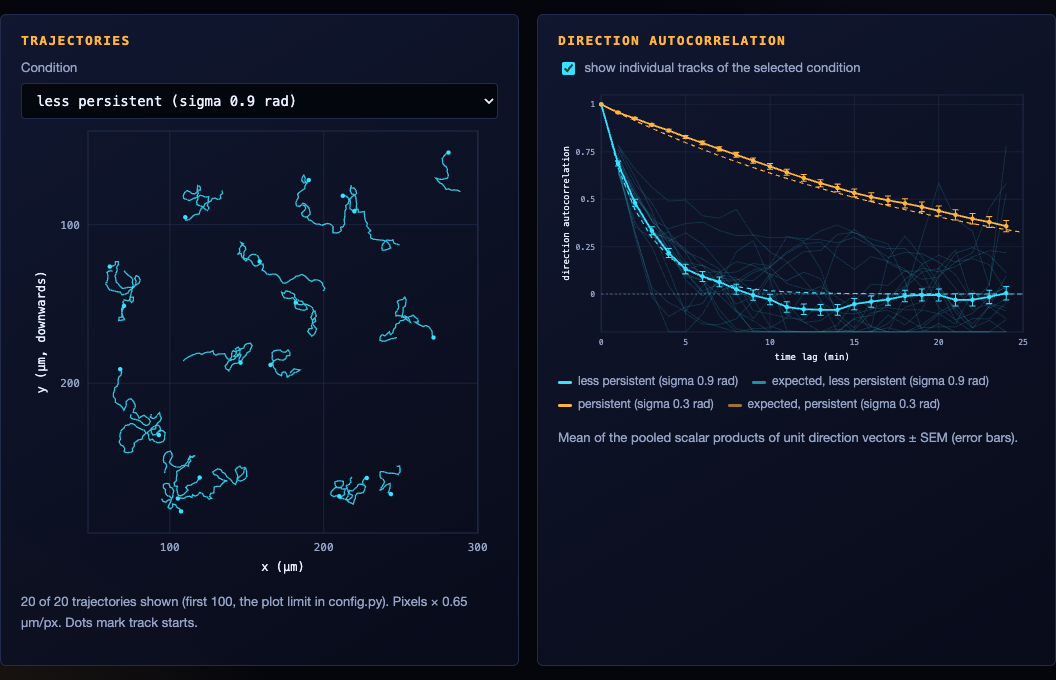
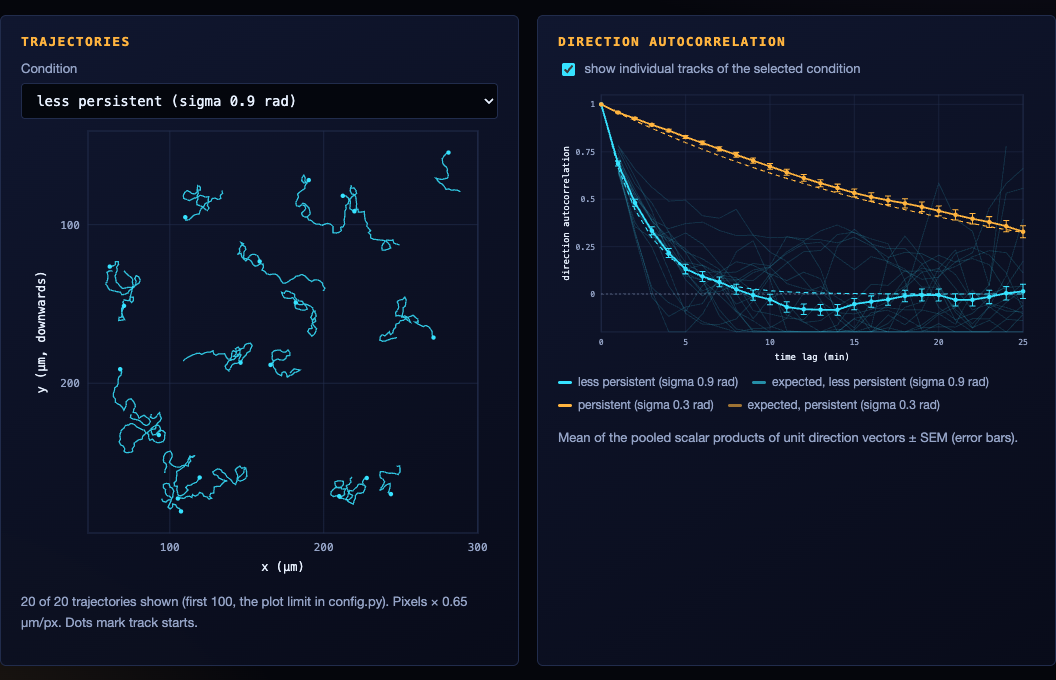
Fix last lag never being computed in calculate_scalar_products
The step loop ran range(1, min(num_intervals, L)), so lag num_intervals * dt was
always empty (AVG NaN, SEM 0). Steps now run 1..min(num_intervals, L-2) (a track
of L points has L-1 direction vectors). Earlier lags are unchanged.

- test_core.py TestAllLagsComputed (failed before the fix): last lag computed,
  per-track lags limited by length, and lags 0..(n-1)*dt, pair counts and per-track
  values equal a frozen pre-fix reference (tests/fixtures/pre_lastlag_reference.json).
- JS engine (dac_engine.js) updated; fixture regenerated; JS vs Python 4.4e-16.
- Site no longer labels the last lag as not computed; README, INTERFACE, SESSION_LOG.

diff --git a/web/static/analyse_view.js b/web/static/analyse_view.js
@@ -18,7 +18,6 @@ export function renderResults(host, res, meta) {
   if (meta.simulated) notes.push('<span class="sim-badge">SIMULATED</span> These results are from simulated persistent random walks, not measurements. Dashed lines show the expected curve exp(−m σ²/2) for a lag of m frames.');
   bad.forEach(c => notes.push(`<span class="err">${esc(c.name)}: ${esc(c.error)}</span>`));
   dropped.forEach(c => notes.push(`${esc(c.name)}: ${c.n_dropped} row(s) with a missing frame, x or y value were dropped.`));
-  notes.push(`As in the Python code, lags are computed for steps shorter than the number of intervals, so the last lag (${fmtLag(res.time_interval * res.num_intervals)} ${esc(unit)}) is always empty.`);
   if (meta.check !== null && meta.check !== undefined) {
     notes.push(Number.isFinite(meta.check) && meta.check < 1e-9
       ? `<span class="ok">Cross-check:</span> the in-browser JS port gives the same numbers as Python here (largest difference ${meta.check.toExponential(1)}).`
@@ -66,7 +65,7 @@ export function renderResults(host, res, meta) {
 
   const lags = ok[0].lags;
   host.querySelector('#t-sum').innerHTML = `<table><tr><th>lag (${esc(unit)})</th>${ok.map(c => `<th>${esc(c.name)}</th>`).join('')}</tr>
-    ${lags.map((l, r) => `<tr><td class="mono">${fmtLag(l)}</td>${ok.map(c => `<td class="mono">${c.avg[r] === null ? '<span class="mute">not computed (n 0)</span>' : `${f3(c.avg[r])} ± ${f3(c.sem[r])} <span class="mute">(n ${c.n_pairs[r]})</span>`}</td>`).join('')}</tr>`).join('')}</table>`;
+    ${lags.map((l, r) => `<tr><td class="mono">${fmtLag(l)}</td>${ok.map(c => `<td class="mono">${c.avg[r] === null ? '<span class="mute">no pairs (tracks too short)</span>' : `${f3(c.avg[r])} ± ${f3(c.sem[r])} <span class="mute">(n ${c.n_pairs[r]})</span>`}</td>`).join('')}</tr>`).join('')}</table>`;
   const base = meta.file.replace(/\.[^.]+$/, '');
   host.querySelector('#x-sum').onclick = () => download(`${base}_autocorrelation_summary.csv`, summaryCSV(res, meta), 'text/csv');
   host.querySelector('#x-tr').onclick = () => download(`${base}_individual_tracks.csv`, tracksCSV(res, meta), 'text/csv');

diff --git a/web/static/dac_engine.js b/web/static/dac_engine.js
@@ -4,8 +4,8 @@
 //  - a new trajectory starts wherever the frame number does not increase (frame[i] - frame[i-1] <= 0);
 //  - the unit vector stored on row k is (r[k-1] - r[k]) / |r[k-1] - r[k]| (first row of a track has none; zero steps
 //    give NaN and are skipped);
-//  - lags are time_interval * step for step = 1..num_intervals, but only steps < min(num_intervals, track length)
-//    are computed, so the last lag is always empty (AVG NaN, SEM 0) exactly as in core.py;
+//  - lags are time_interval * step for step = 1..num_intervals; a track of L points contributes to steps up to
+//    min(num_intervals, L - 2) (L - 1 vectors); a lag with no pairs has AVG NaN, SEM 0;
 //  - SEM = sample std (ddof 1) / sqrt(n) of the pooled scalar products; lag 0 is fixed at AVG 1, SEM 0.
 // Rows with missing frame/x/y are dropped and positions are re-indexed 0..n-1 (see web/analysis.py for why).
 // The output has the same JSON shape as POST /api/analyze. Tested against Python in dac_engine.test.mjs.
@@ -122,8 +122,8 @@ export function processArrays(frame, x, y, timeInterval, numIntervals) {
     const a = starts[i], b = starts[i + 1], len = b - a;
     if (len < 2) continue;
     const tr = { id: `track_${i + 1}`, t: [], c: [] };
-    const maxI = Math.min(numIntervals, len);
-    for (let step = 1; step < maxI; step++) {
+    const maxStep = Math.min(numIntervals, len - 2);
+    for (let step = 1; step <= maxStep; step++) {
       const dots = [];
       for (let j = a; j < b - step; j++) {
         const d = vx[j] * vx[j + step] + vy[j] * vy[j + step];

diff --git a/test_core.py b/test_core.py
@@ -226,3 +226,50 @@ class TestIndexLabelsIndependence(unittest.TestCase):
         _, got, _ = process_sheet(with_gap, 1.0, 8)
         _, ref, _ = process_sheet(with_gap.dropna().reset_index(drop=True), 1.0, 8)
         pd.testing.assert_frame_equal(ref, got)
+
+
+class TestAllLagsComputed(unittest.TestCase):
+    """Every lag 1..num_intervals is computed when a track is long enough (the last lag used to be skipped)."""
+
+    @staticmethod
+    def _run(df, dt, n):
+        import contextlib, io
+        from core import process_sheet
+        with contextlib.redirect_stdout(io.StringIO()):
+            return process_sheet(df, dt, n)
+
+    def test_last_lag_computed(self):
+        df = pd.DataFrame({'frame': range(1, 31), 'x': np.arange(30.0), 'y': np.zeros(30)})
+        sp, av, _ = self._run(df, 1.0, 10)
+        self.assertAlmostEqual(av.loc['AVG', 10.0], 1.0)
+        self.assertEqual(av.loc['SEM', 10.0], 0.0)
+        self.assertEqual(sp[10.0].count(), 30 - 1 - 10)  # 29 unit vectors, pairs 10 apart
+
+    def test_per_track_lags_limited_by_length(self):
+        """A track of L points has L-1 vectors, so lags up to L-2 steps (and at most num_intervals)."""
+        df = pd.DataFrame({'frame': [1, 2, 3, 4, 5] + list(range(1, 21)),
+                           'x': [0, 1, 2, 3, 4] + list(range(20)), 'y': [0.0] * 25})
+        _, _, tracks = self._run(df, 1.0, 10)
+        lags = tracks.groupby('track_id')['time_interval'].max()
+        self.assertEqual(lags['track_1'], 3.0)
+        self.assertEqual(lags['track_2'], 10.0)
+
+    def test_earlier_lags_unchanged(self):
+        """Lags below num_intervals are identical to the results before the fix (frozen reference)."""
+        import json
+        from pathlib import Path
+        ref = json.loads((Path(__file__).parent / 'tests' / 'fixtures' / 'pre_lastlag_reference.json').read_text())
+        df = pd.DataFrame({'frame': ref['frame'], 'x': ref['x'], 'y': ref['y']})
+        sp, av, tracks = self._run(df, ref['time_interval'], ref['num_intervals'])
+        n = ref['num_intervals']
+        np.testing.assert_allclose(av.loc['AVG'].to_numpy(float)[:n], np.array(ref['avg'][:n], float), rtol=0, atol=1e-15)
+        np.testing.assert_allclose(av.loc['SEM'].to_numpy(float)[:n], np.array(ref['sem'][:n], float), rtol=0, atol=1e-15)
+        self.assertEqual([int(sp[c].count()) for c in sp.columns][:n - 1], ref['n_pairs'][:n - 1])
+        old = {(t, lag): c for t, lag, c in ref['tracks']}
+        new = {(r.track_id, r.time_interval): r.correlation for r in tracks.itertuples()}
+        for k, v in old.items():
+            self.assertAlmostEqual(new[k], v, places=15)
+        self.assertTrue(all(lag == n * ref['time_interval'] for (_, lag) in set(new) - set(old)))
+        # the last lag is now finite: tracks of 40, 15 and 12 points contribute 29 + 4 + 1 pairs
+        self.assertEqual(sp[n * ref['time_interval']].count(), 34)
+        self.assertTrue(np.isfinite(av.loc['AVG', n * ref['time_interval']]))

diff --git a/core.py b/core.py
@@ -113,10 +113,13 @@ def calculate_scalar_products(df: pd.DataFrame, traj_starts: list,
 
         track_id = f"track_{i+1}"
         individual_track_results[track_id] = {}
-        max_intervals = min(num_intervals, traj_length)
+        # A track of L points has L-1 direction vectors, so the longest lag with a vector pair is L-2 steps.
+        # Every lag 1..num_intervals is computed when the track is long enough (previously the loop stopped
+        # at num_intervals-1, leaving the last lag empty).
+        max_step = min(num_intervals, traj_length - 2)
         traj_vectors = df.iloc[start_idx:end_idx]
 
-        for step in range(1, max_intervals):
+        for step in range(1, max_step + 1):
             time_point = time_interval * step
 
             x_vecs1 = traj_vectors['x_vector'].values[:-step]

diff --git a/tests/test_web.py b/tests/test_web.py
@@ -106,7 +106,7 @@ def test_every_condition_analysed():
     got = _post(FIXTURE["cases"][0]["csv"], 0.5, 12).json()["conditions"]
     assert len(got) == 2
     for c in got:
-        assert all(v is not None for v in c["avg"][:-1]) and c["avg"][-1] is None
+        assert all(v is not None for v in c["avg"])  # including the last lag (num_intervals * dt)
 
 
 def test_excel_upload(tmp_path):

diff --git a/SESSION_LOG.md b/SESSION_LOG.md
@@ -10,10 +10,19 @@
 - Fixed in core.py (George approved): `calculate_normed_vectors` took track starts from index labels but sliced with
   iloc, so in the CLI every condition after the first in a multi-condition CSV was NaN and dropped NaN rows could shift
   track boundaries. Now positional starts + `reset_index` in `process_sheet`; results for single-condition files
-  unchanged; regression tests `TestIndexLabelsIndependence` in test_core.py. Also by design of core.py the last lag
-  (num_intervals * dt) is never computed (AVG NaN, SEM 0); the web reproduces and labels this.
+  unchanged; regression tests `TestIndexLabelsIndependence` in test_core.py.
 - Demo data are simulated (the repo has no generator or example data): seeded persistent random walks, labelled
   SIMULATED everywhere, with the theoretical curve overlaid.
 - Pixel size is required for pixel coordinates (never assumed); it only scales the trajectory plot and is recorded in
   exports, since the autocorrelation uses unit vectors.
 - Tests: tests/test_web.py 13 passed; test_core.py 16 passed; node dac_engine test ok; screenshots static + local ok.
+
+## 2026-11-11 — bug fixes (George approved)
+- Fixed in core.py: `calculate_scalar_products` looped `range(1, min(num_intervals, L))`, so the last lag
+  (num_intervals * dt) was never computed (AVG NaN, SEM 0). Now steps 1..min(num_intervals, L-2) (a track of L points
+  has L-1 vectors). Regression tests `TestAllLagsComputed` (failed before the fix); `test_earlier_lags_unchanged`
+  checks lags 0..(n-1)*dt, pair counts and per-track values against a frozen pre-fix reference
+  (`tests/fixtures/pre_lastlag_reference.json`) to 1e-15. Old results files differ only in the last lag column.
+- JS engine updated to match; the site no longer labels the last lag "not computed" (an empty lag now only occurs when
+  all tracks are too short, shown as "no pairs").
+- Fixture regenerated: 3 cases, 238 values, worst |JS - Python| = 4.4e-16.

diff --git a/README.md b/README.md
@@ -145,7 +145,7 @@ This allows automatic cross-condition comparison and aggregate statistics.
 
 1. **Frame Rate Selection**: Choose an appropriate time interval between frames. Too short intervals may capture noise; too long may miss important cell movements.
 
-2. **Number of Intervals**: Set based on how long you want to track directional persistence. Higher values analyze longer-term behavior.
+2. **Number of Intervals**: Set based on how long you want to track directional persistence. Higher values analyze longer-term behavior. Lags 1 to N intervals are all computed; a track of L positions contributes to lags of up to L-2 intervals. (Before 2026-11-11 the last lag, N × interval, was always left empty; earlier lags are unchanged.)
 
 3. **Y-Axis Scale**: Default is set to -0.2 to 1.0 for consistent visualization across conditions.
 

diff --git a/INTERFACE.md b/INTERFACE.md
@@ -61,7 +61,7 @@
 - **requirements-web.txt** — pinned web/test dependencies
 
 ### Tests
-- **test_core.py** — 16 tests covering vector normalization, scalar products, averaging, column identification, file type detection
+- **test_core.py** — 21 tests: vector normalization, scalar products (incl. `TestAllLagsComputed`: last lag computed, earlier lags equal the frozen pre-fix reference `tests/fixtures/pre_lastlag_reference.json`), averaging, index-label independence, column identification, file type detection
 - **tests/test_web.py** — web API (fixture agreement, CLI-path identity, all conditions analysed, Excel, bad input),
   static build, and runs the node JS-engine tests
 
